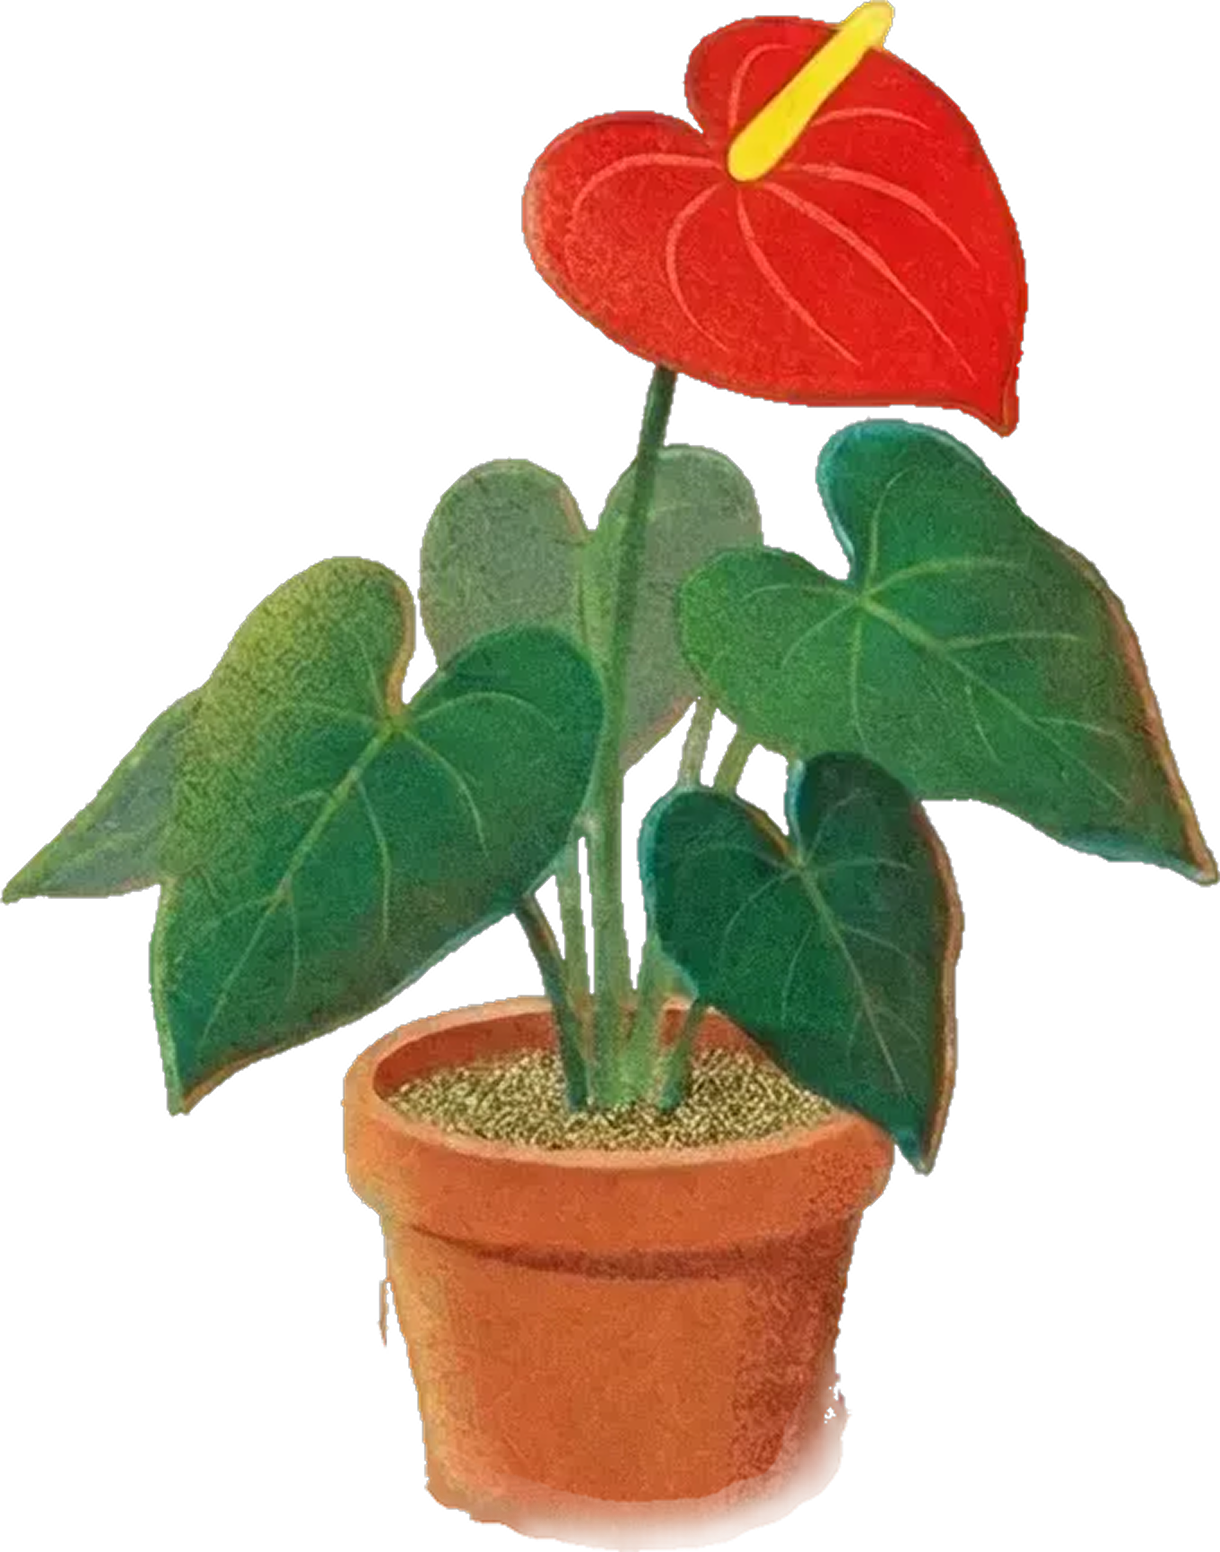
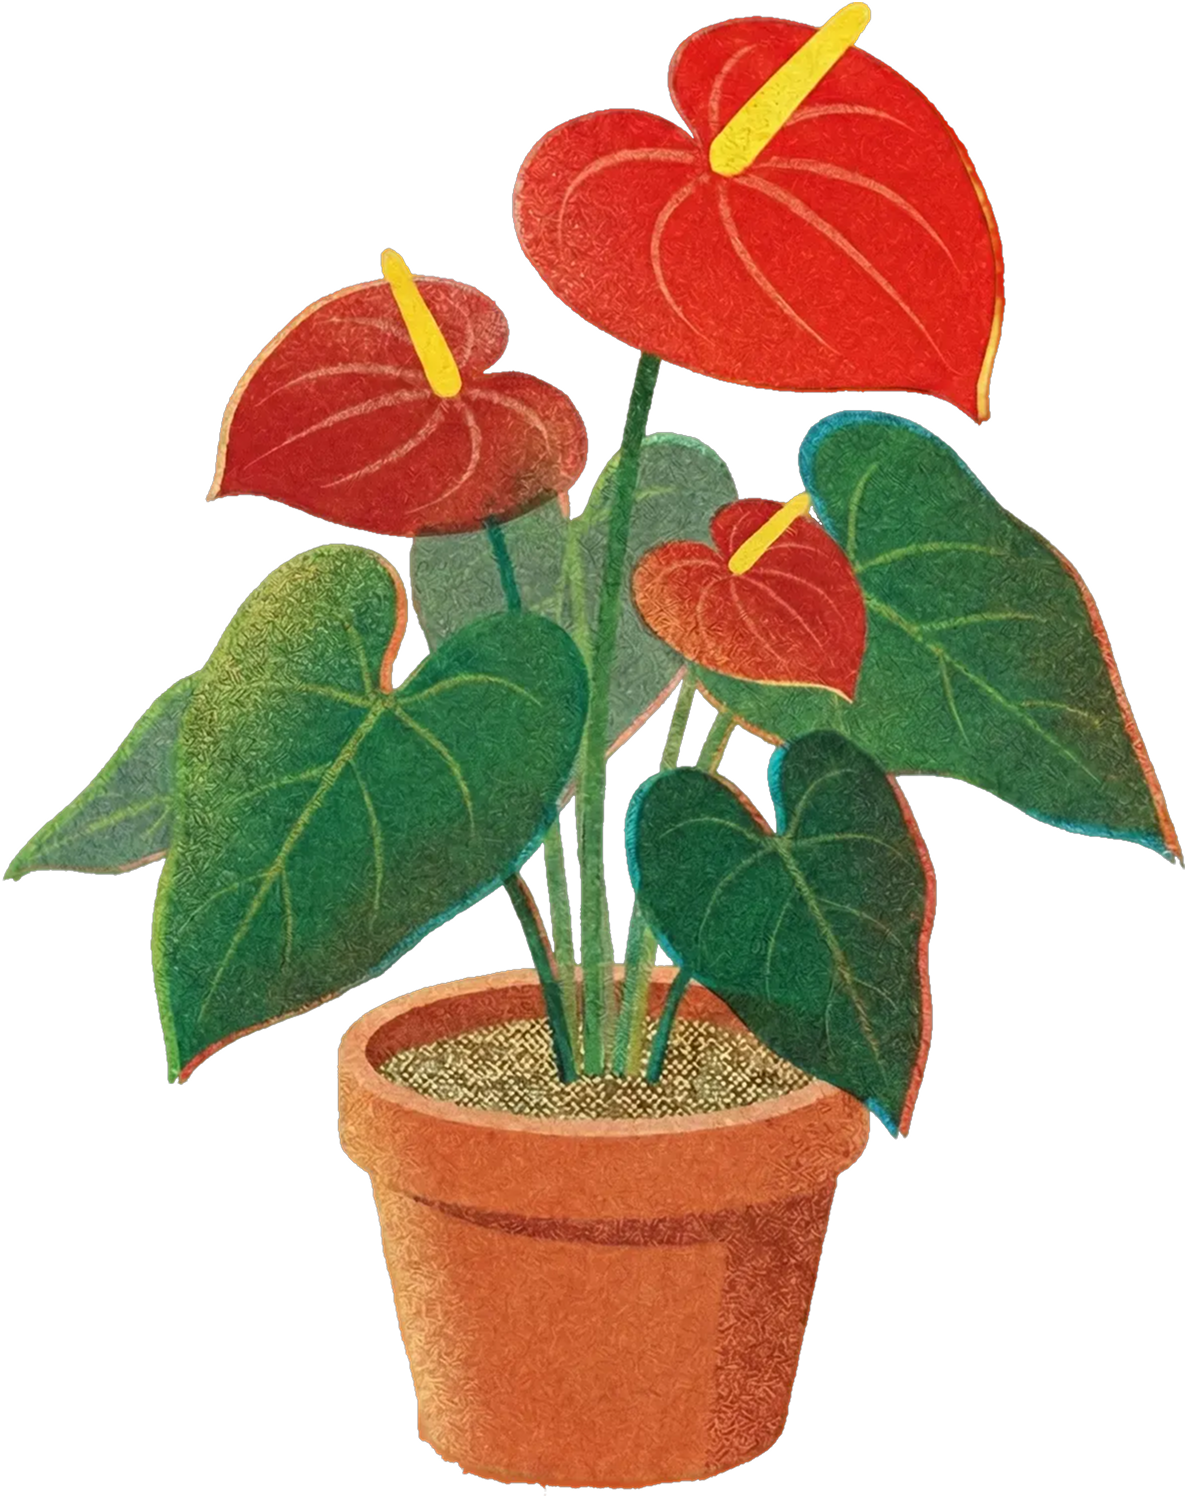
Increase stage 2 and 3 plant sizes

diff --git a/web/src/app/plant/page.tsx b/web/src/app/plant/page.tsx
@@ -159,7 +159,7 @@ export default function PlantPage() {
   const isDying = plant?.status === "needs-water" || plant?.status === "needs-sun";
   const imgSrc = isDying ? `/plant/anthurium-dead-${stage}.png` : `/plant/anthurium-${stage}.png`;
   // Scale plant size progressively across stages
-  const STAGE_WIDTHS: Record<number, string> = { 1: "32%", 2: "44%", 3: "54%", 4: "62%", 5: "72%" };
+  const STAGE_WIDTHS: Record<number, string> = { 1: "32%", 2: "52%", 3: "62%", 4: "68%", 5: "76%" };
   const stageLabel = STAGE_LABELS[stage];
   const hint = plant ? statusLabel(plant.status) : null;
 
